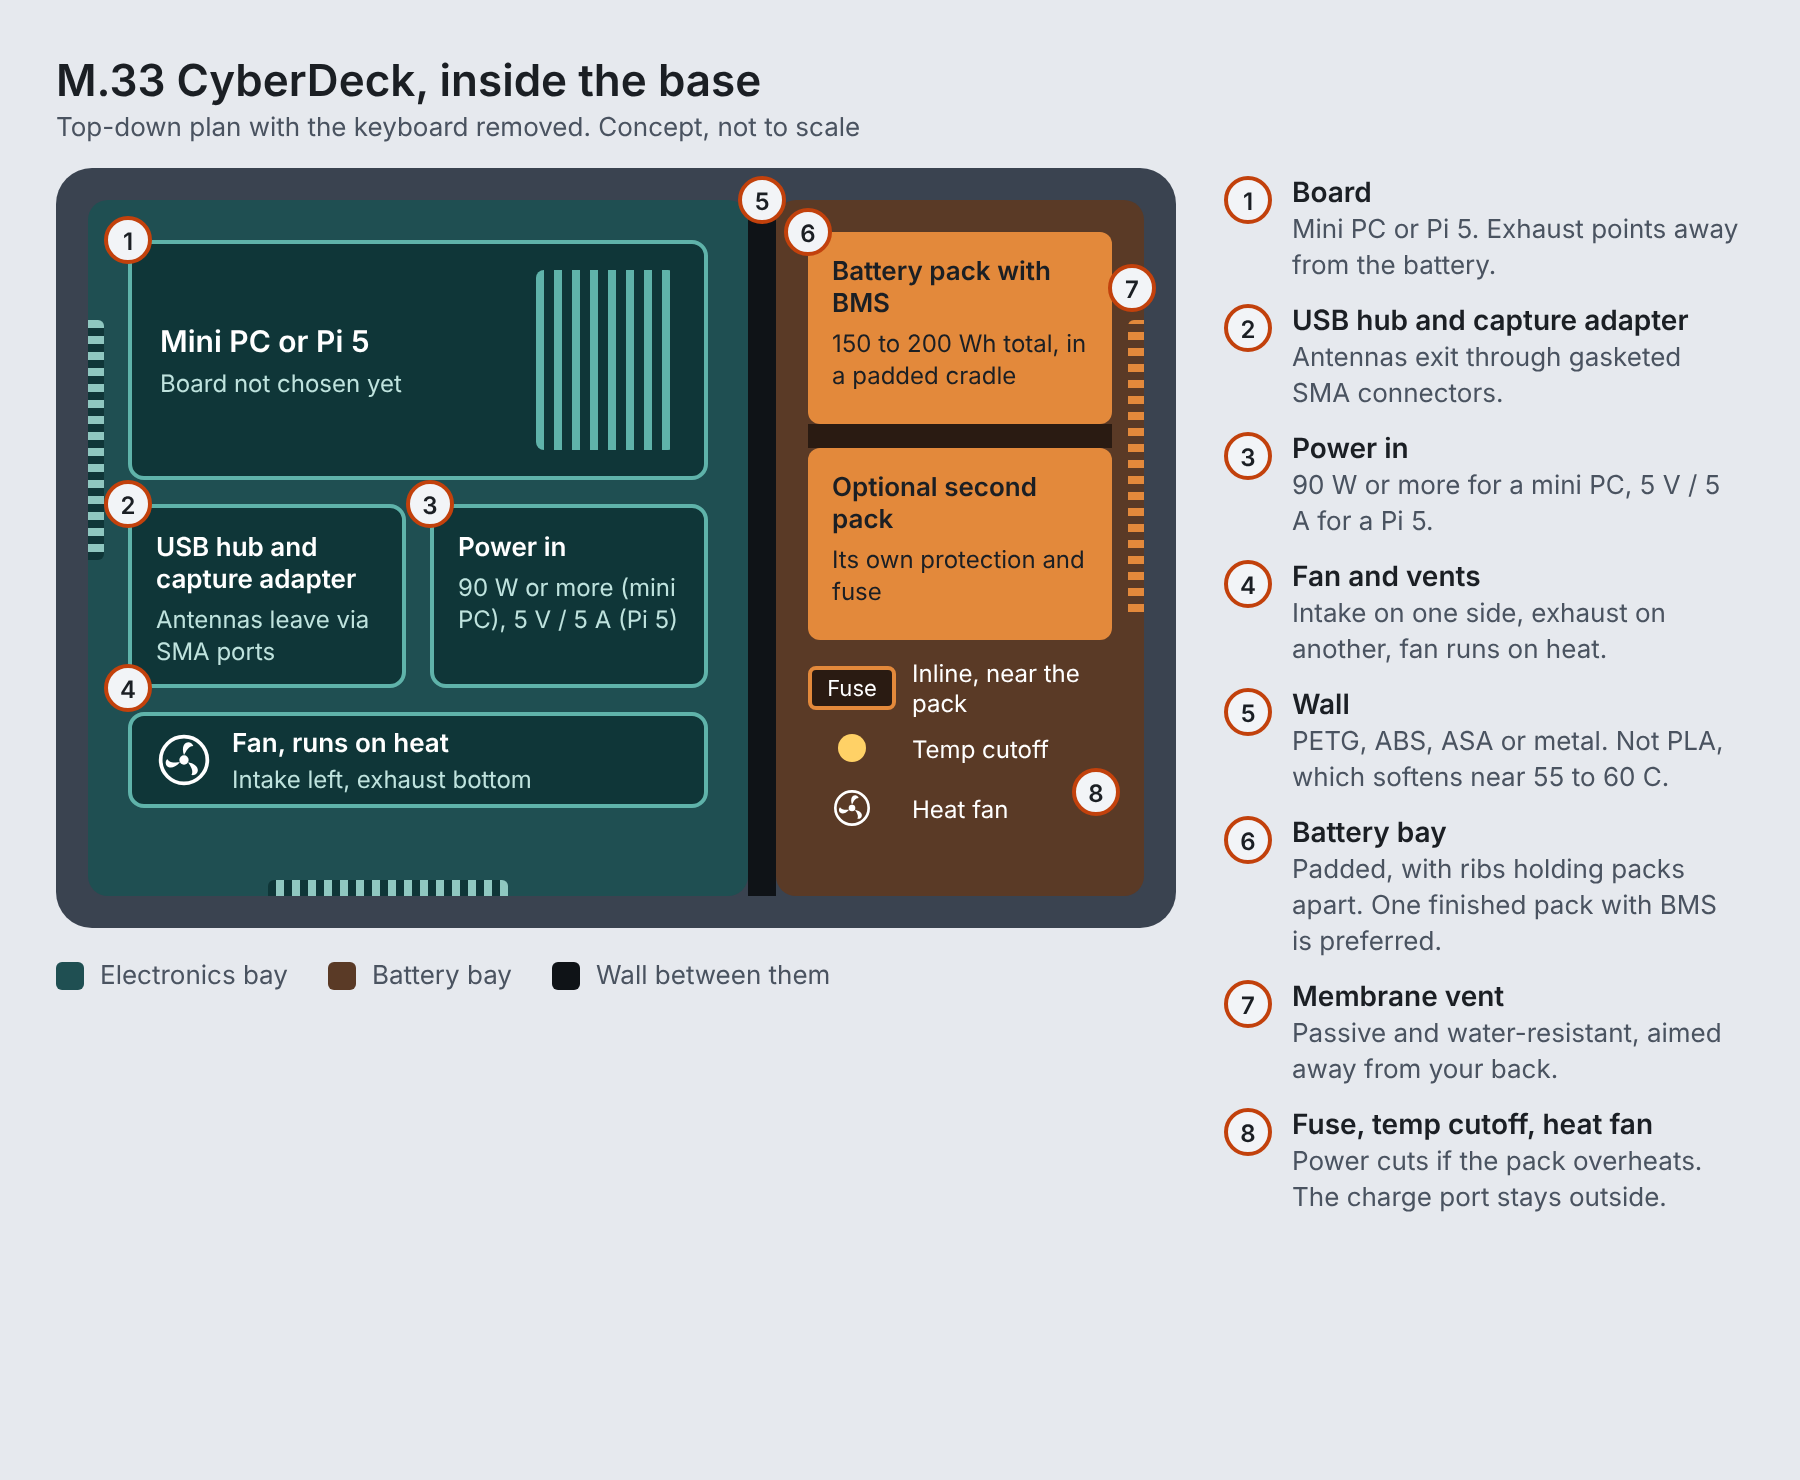
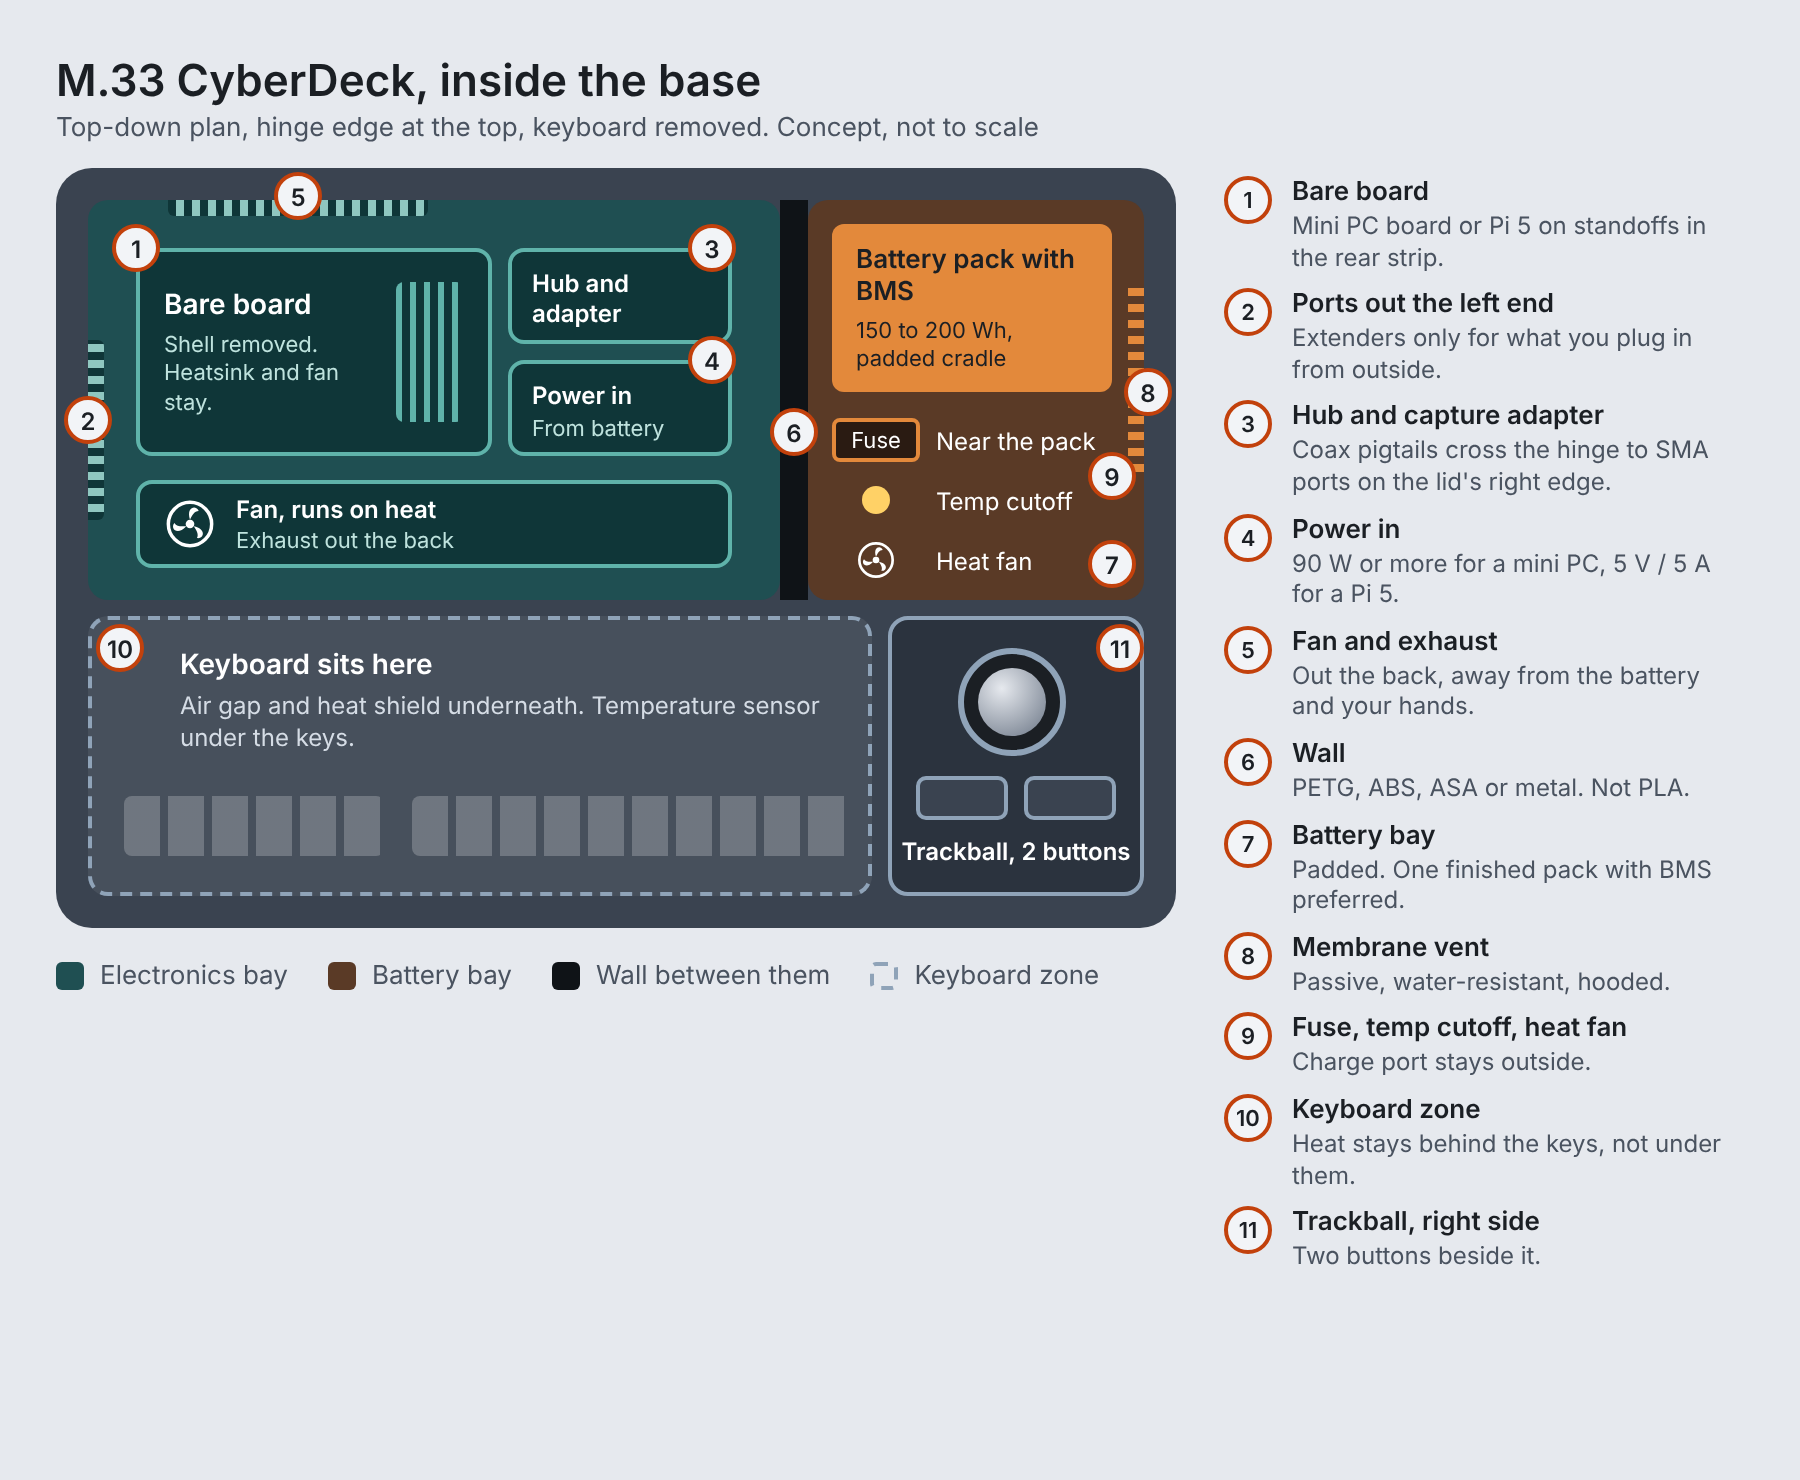
Add board and cabling layout, case candidates; redraw inside-base view
Claude-Session: https://claude.ai/code/session_01WfqXADZtRr3PMXX3S9pY6E

Changed region(s): [[0.0311, 0.0622, 0.6533, 0.6216], [0.6844, 0.1243, 0.9644, 0.8703], [0.4978, 0.6527, 0.6222, 0.6838]]

diff --git a/CASE_SPEC.md b/CASE_SPEC.md
@@ -19,6 +19,35 @@ As of 2026-11-09. Shared by both builds (`BUILD_PLAN.md` for the Pi, `MINI_PC_PL
 - Orientation on the bag: the lid's outside faces out and the right side (trackball side) faces up, so the back vents point out to the wearer's left.
 - Pointing device: trackball on the right side of the base with two mouse buttons beside it, clear of the keys. Thumb or finger placement is not decided.
 
+## Board and cabling layout
+
+Shown in `images/02-inside-base.png`. Hinge edge is the back.
+
+- Rear strip, left: the bare board on standoffs, its heatsink and fan, the capture adapter and hub, and power in. Exhaust out the back. The board's I/O edge faces the left end.
+- Rear strip, right: the battery bay, behind a wall, with its own membrane vent.
+- Front row: the keyboard zone (60 to 65% board, about 11 in wide) and the trackball with two buttons on the right.
+- Port extenders: only for what is plugged in from outside (power in, one or two USB-A, Ethernet if wanted). They exit the left end. The keyboard, trackball and capture adapter connect inside, so they need no case holes.
+- Across the hinge: one USB-C or HDMI-plus-USB cable to the screen (video, power and touch), plus two thin coax pigtails from the capture adapter to SMA connectors on the lid's right edge. The adapter itself stays in the base.
+- If the keyboard and trackball can share one USB controller, that saves a port and a cable.
+
+## Case candidates
+
+Interior sizes from listings. The sizes below are not yet checked against a real board. Prices change, and the Apache 3800 prices are from expired deal listings.
+
+| Case | Interior (L x W) | Lid + base depth | Notes |
+| --- | --- | --- | --- |
+| Apache 3800 (Harbor Freight) | 14 7/8 x 10 5/8 in | 6 1/8 in total | Cheapest ($20 to $40 in listings). Deep and heavier. A Pi 4 cyberdeck has been built in one. Plastic is probably polypropylene, which glues poorly, so use screws and backing plates. |
+| Pelican 1470 | about 15.7 x 10.7 in | about 1.47 + 2.4 = 3.87 in | The size wanted. About 4.47 in thick outside and 4.28 lb. Expensive ($185 new), so look used. |
+| Nanuk 910 | 13.2 x 9.2 in | 1.3 + 2.8 = 4.1 in | $75.95. Tight for a 60% keyboard plus the trackball. |
+| SKB iSeries 1510-4 | 15 x 10.5 in | 1.25 + 3.25 = 4.5 in | IP67, discontinued listing, premium price. |
+| Apache 2800, Seahorse 520, Monoprice 13 x 14 x 7 | Too narrow or too deep | | Not suitable. |
+
+Plan: buy an Apache 3800 as a practice case for test cuts, then move to a used Pelican 1470 once the design is settled. Strip the foam from whichever case is used.
+
+## Weight and carry
+
+Estimated 9 to 13 lb for a mini PC build in a large case, 6 to 8 lb for a Pi 5 with a smaller battery. These are estimates, not measurements.
+
 ## Battery bay
 
 - **Capacity:** target about 150 to 200 Wh. That is roughly 6 to 9 hours at a 20 W average and about 1.2 to 2 kg. Larger packs add weight and stored energy without much benefit.

diff --git a/README.md b/README.md
@@ -14,7 +14,7 @@ A portable, battery-powered cyberdeck for wireless capture, network security tes
 Early concept drawings of the deck. They are close to the intended design, but the board, battery pack, and exact layout are not final.
 
 - `images/01-open.png`: the open deck (screen, keyboard, trackball on the right with two buttons, antennas, corner clips, end vent)
-- `images/02-inside-base.png`: top-down plan of the base (electronics bay, wall, battery bay)
+- `images/02-inside-base.png`: top-down plan of the base (bare board in a rear strip with back exhaust, wall, battery bay, keyboard zone, trackball)
 - `images/03-on-bag.png`: closed case clipped to a backpack with a backup strap
 
 The editable design canvas is "M.33 CyberDeck Concept" in Claude. The PNGs are renders of it and use a fallback font.
